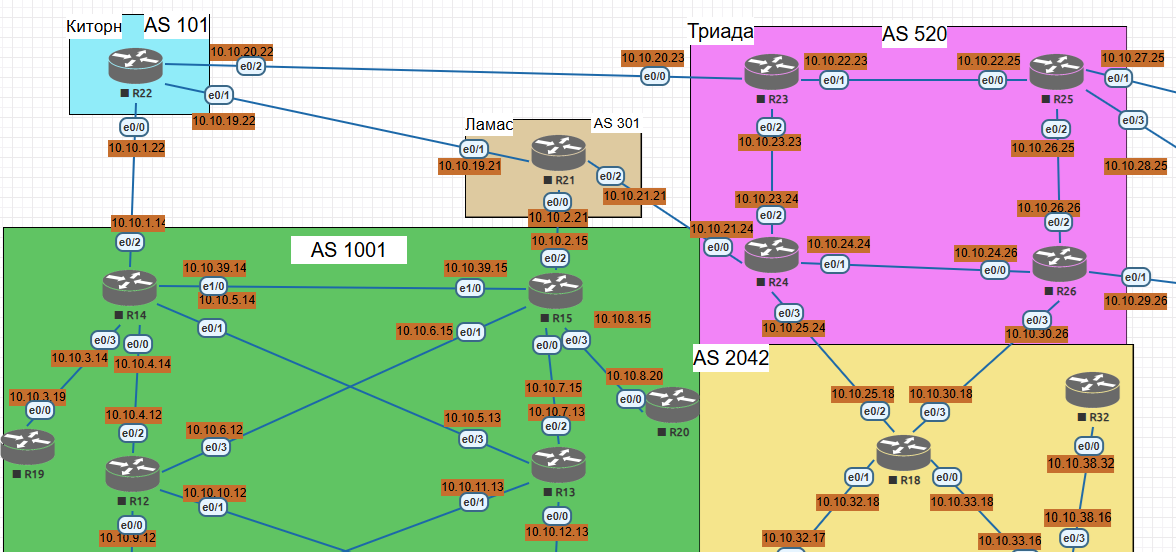
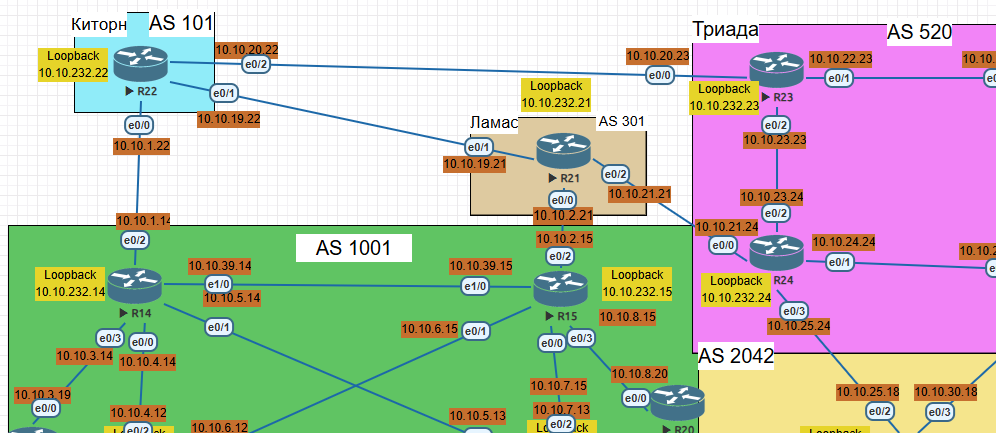
1

diff --git a/Лабораторные работы/10/readme.md b/Лабораторные работы/10/readme.md
@@ -1,0 +1,18 @@
+
+ # Лабораторная работа 10. iBGP
+
+ Цель:<br/>
+Настроить iBGP в офисе Москва<br/>
+Настроить iBGP в сети провайдера Триада<br/>
+Организовать полную IP связанность всех сетей<br/>
+
+
+1. Настроите iBGP в офисом Москва между маршрутизаторами R14 и R15.<br/>
+2. Настроите iBGP в провайдере Триада, с использованием RR.<br/>
+3. Настройте офиса Москва так, чтобы приоритетным провайдером стал Ламас.<br/>
+4. Настройте офиса С.-Петербург так, чтобы трафик до любого офиса распределялся по двум линкам одновременно.<br/>
+5. Все сети в лабораторной работе должны иметь IP связность.<br/>
+
+Топология:
+
+![топология](scrn/Топология.png)

diff --git a/Лабораторные работы/readme.md b/Лабораторные работы/readme.md
@@ -18,3 +18,5 @@
 
 [09 Лабораторная работа BGP ](09/readme.md)<br/>
 
+[10 Лабораторная работа iBGP ](10/readme.md)<br/>
+
